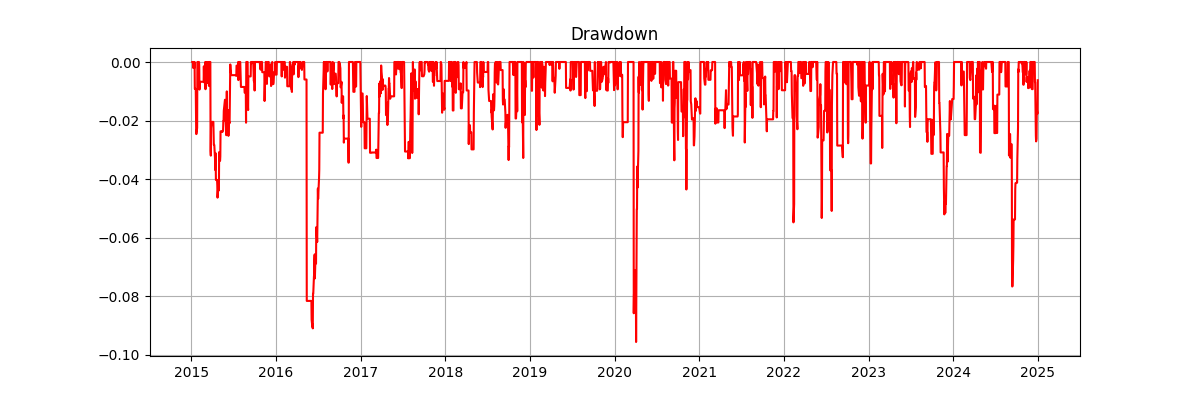
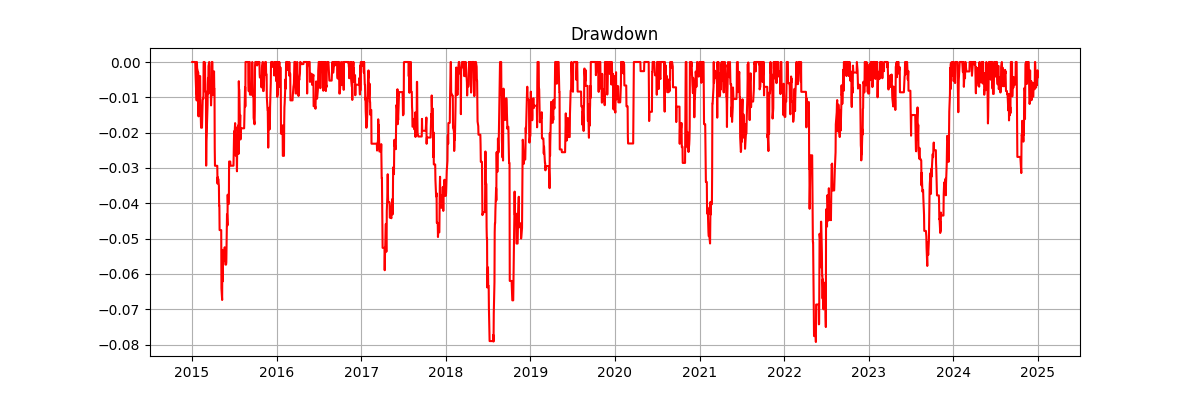
TESTING

diff --git a/main.py b/main.py
@@ -8,7 +8,7 @@ from src.visualization import plot_equity_curve, plot_with_benchmark, plot_drawd
 
 def main():
     # 📊 Load data
-    data = load_data("NVDA", "2015-01-01", "2025-01-01")
+    data = load_data("RELIANCE.NS", "2015-01-01", "2025-01-01")
 
     
     # 🧠 Add indicators
